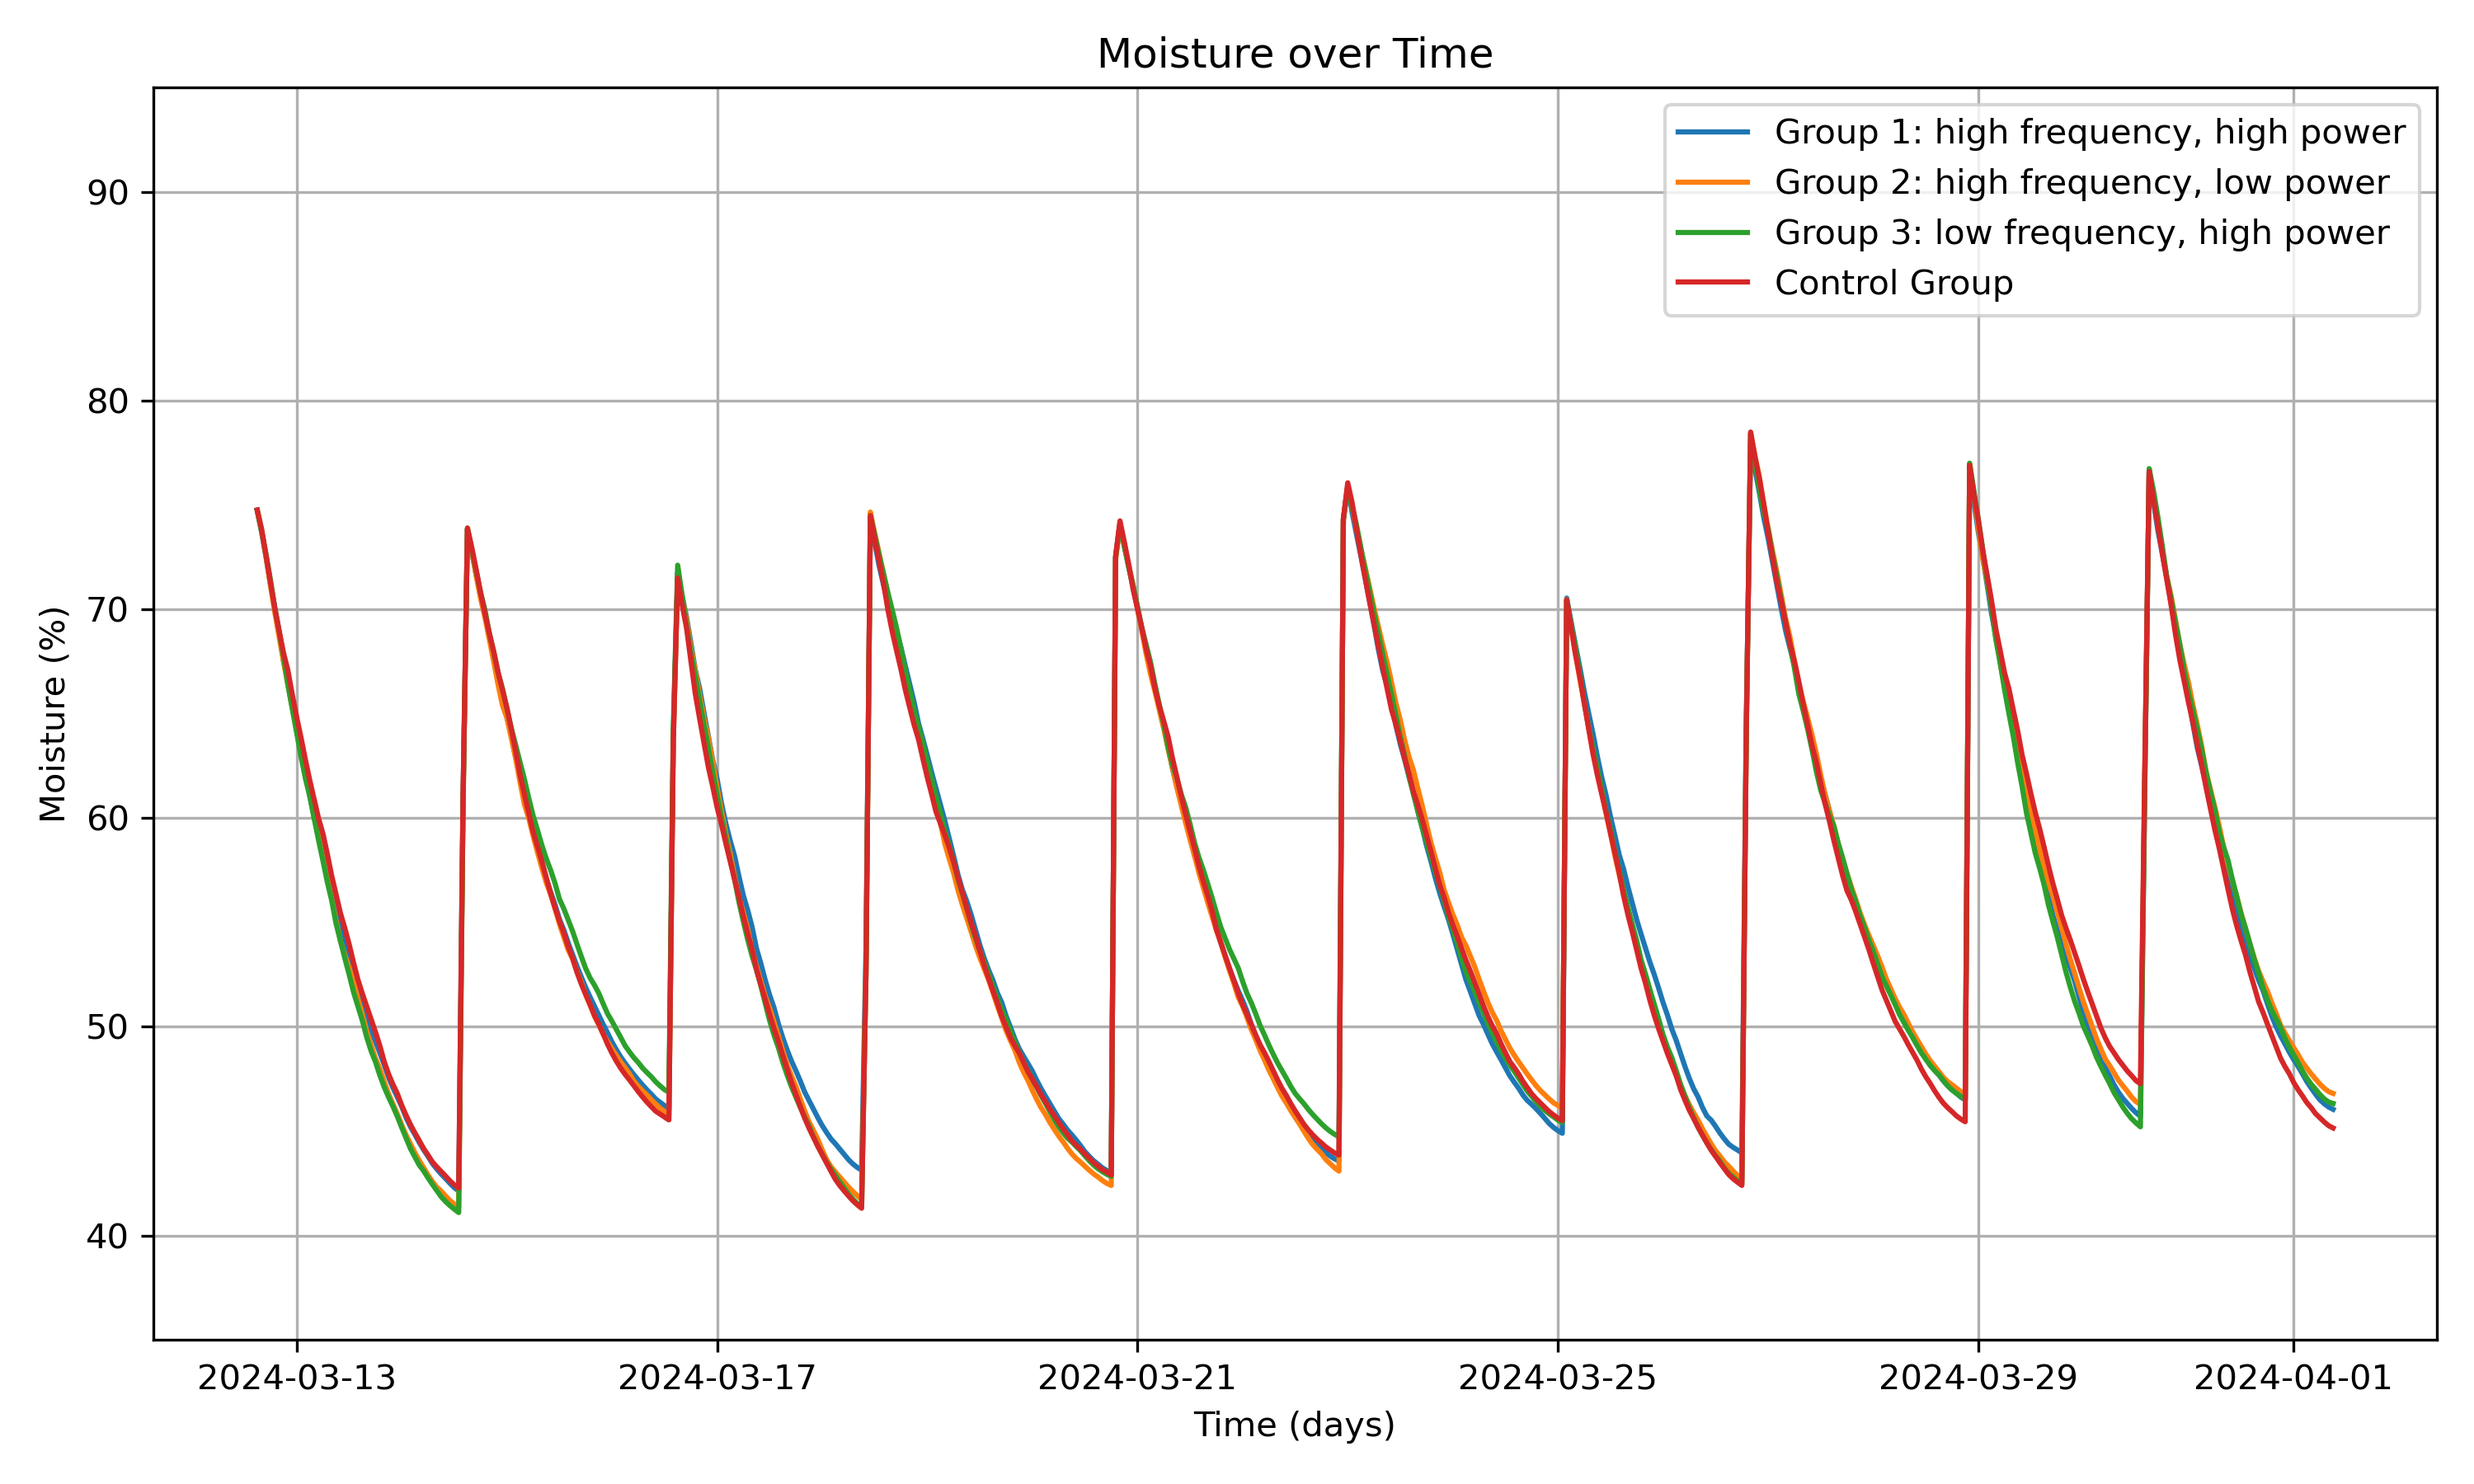
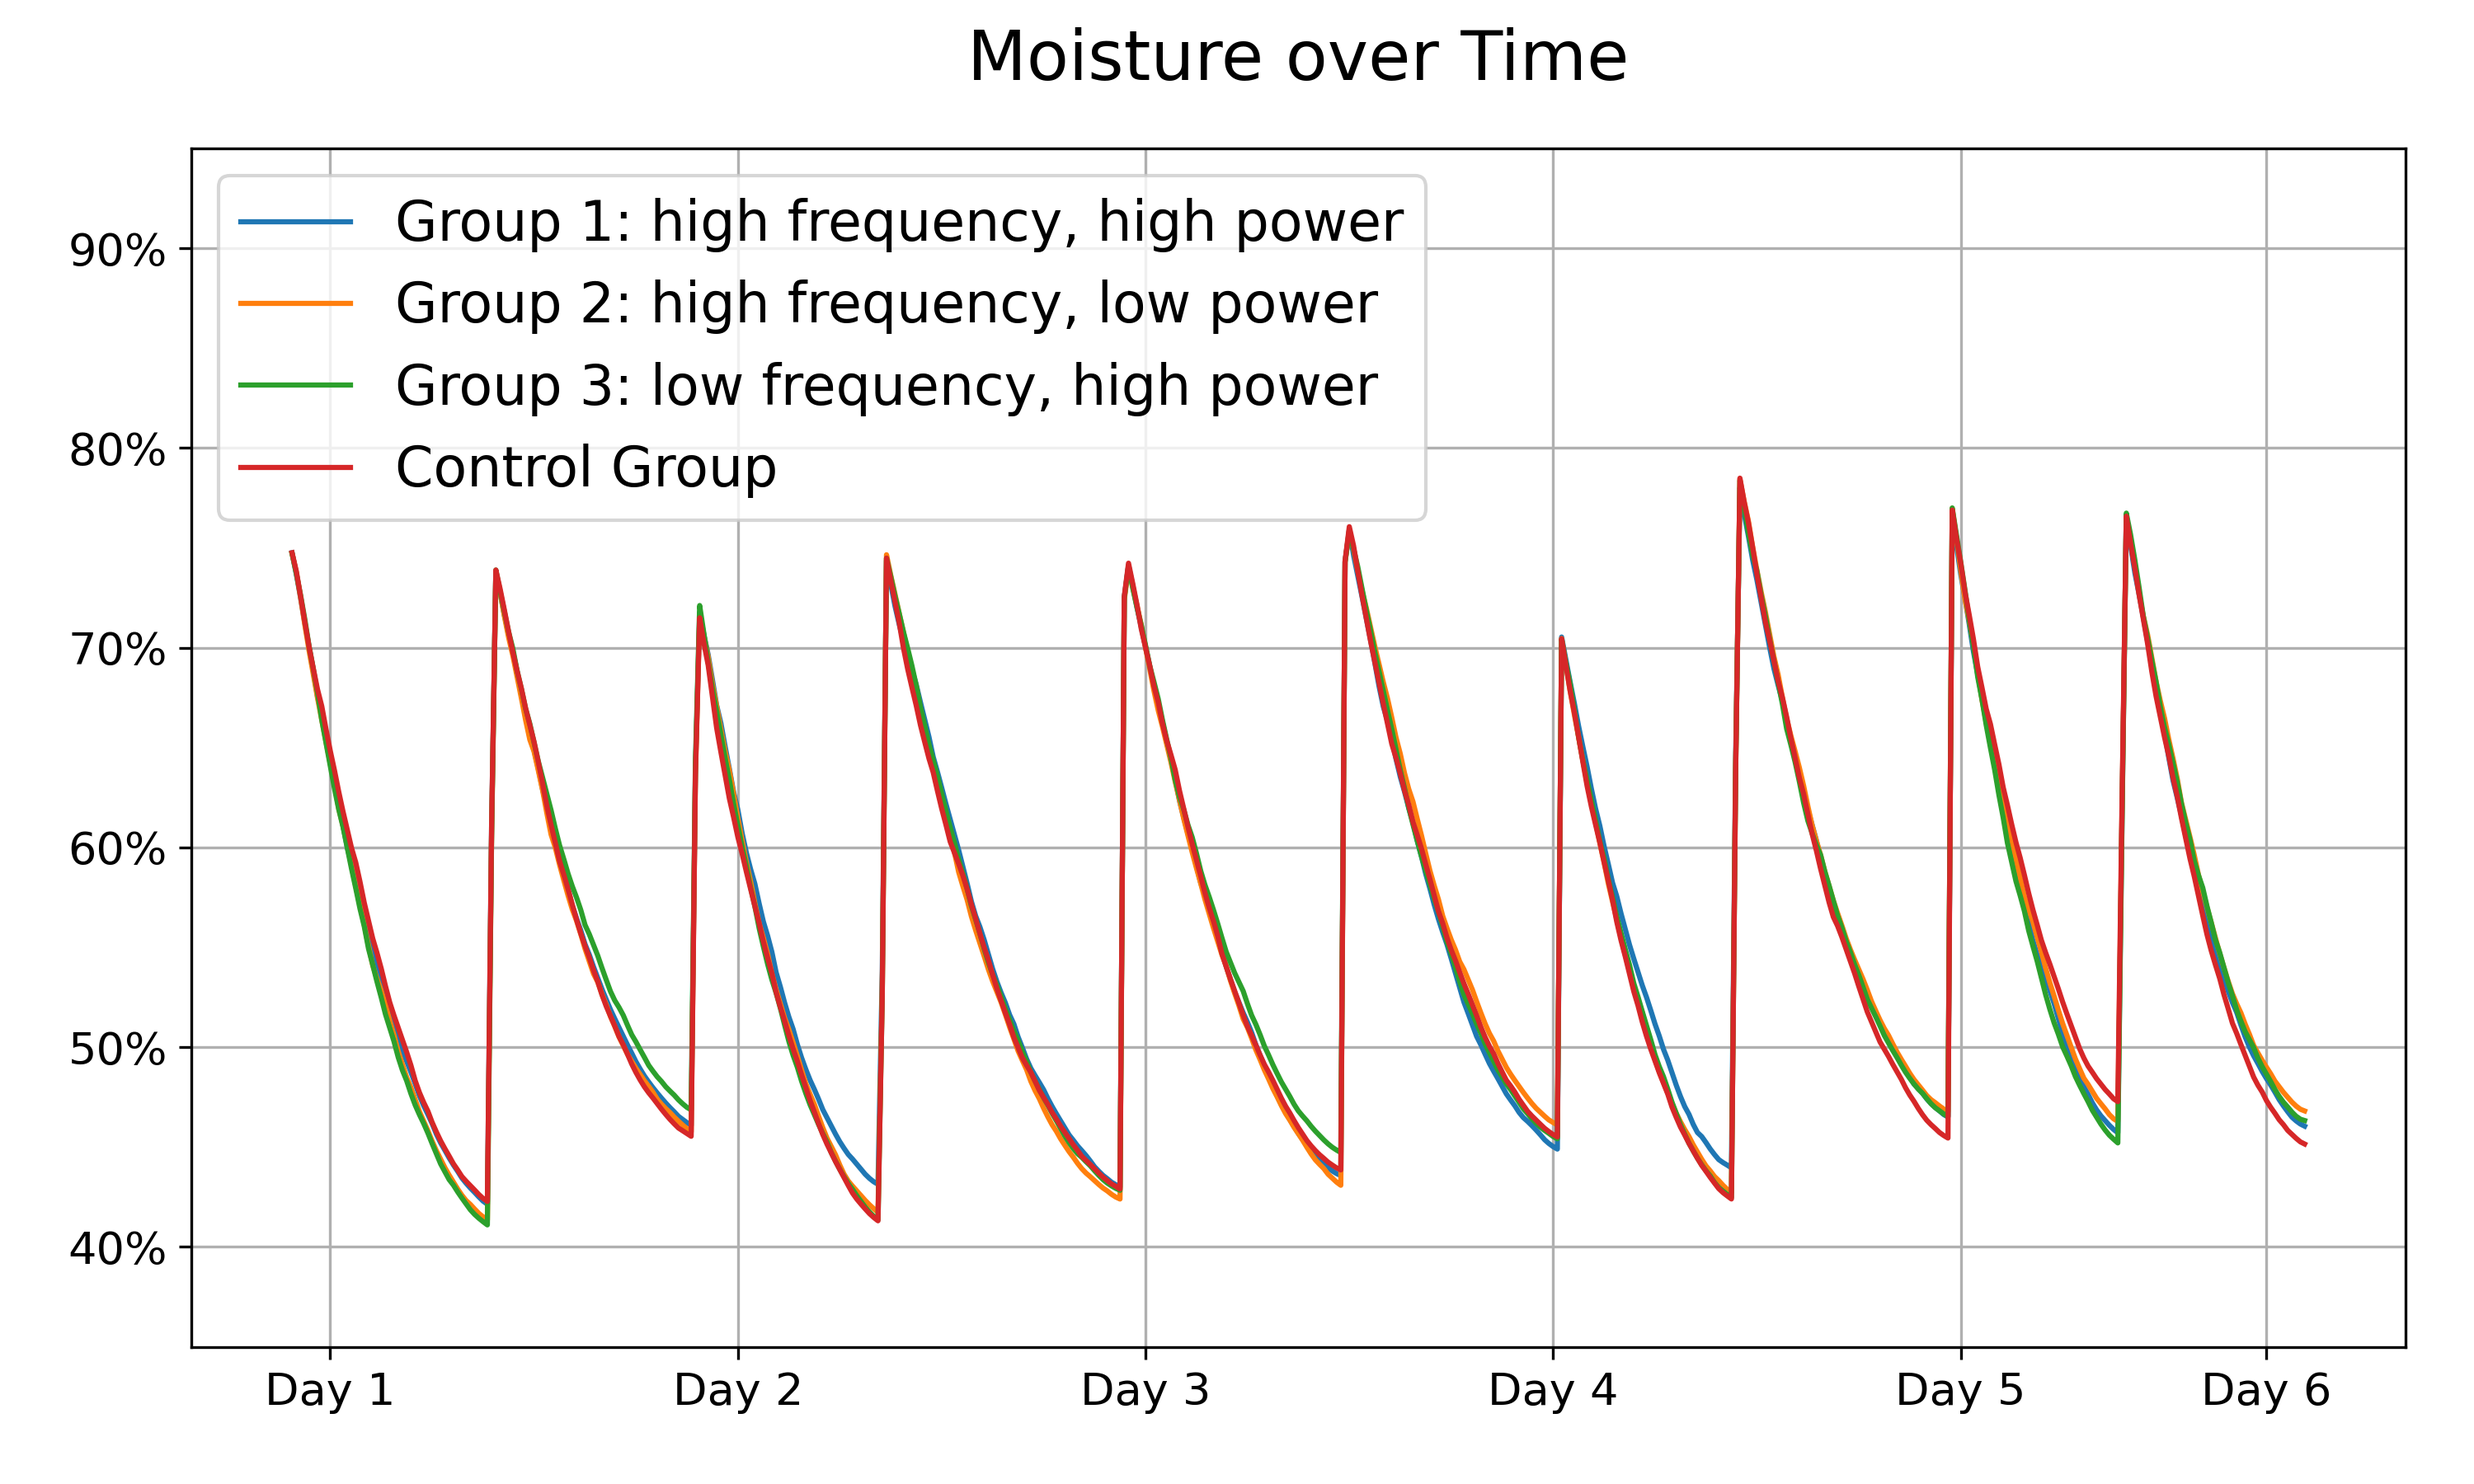
adjust moisture graph size and layout

diff --git a/Moisture/scripts/plot.py b/Moisture/scripts/plot.py
@@ -40,19 +40,23 @@ for file in files[1:]:
     # Plot 'time' vs. 'moisture' on the same axes
     plt.plot(df['time'], df['moisture'], label=label_mapping.get(file, file.split(".")[0]))  # Plot data
 
-# Add labels and title with units
-plt.xlabel('Time (days)')  # Set the x-axis label with units
-plt.ylabel('Moisture (%)')  # Set the y-axis label with units
-plt.title('Moisture over Time')  # Set the title
+plt.title('Moisture over Time', fontsize=20, pad=20)  # Set the title with additional spacing
 plt.grid(True)  # Show grid
 
 # Set y-axis limits
 plt.ylim(35, 95)
 
-plt.legend()  # Show legend
+# Set x-axis ticks
+plt.xticks(plt.xticks()[0], [f'Day {i+1}' for i in range(len(plt.xticks()[0]))], fontsize=13)
+
+# Add '%' to y-axis ticks
+plt.gca().set_yticklabels([f'{int(x)}%' for x in plt.gca().get_yticks()], fontsize=13)
+
+plt.legend(fontsize=16)  # Show legend
 
 # Adjust layout
-plt.tight_layout()
+plt.tight_layout(pad=2)  # Add even spacing around the graph
+plt.subplots_adjust(top=0.9)  # Add spacing around the title
 
 # Save the plot as an image file
 output_filename = os.path.join(output_dir, 'combined_plots.png')
